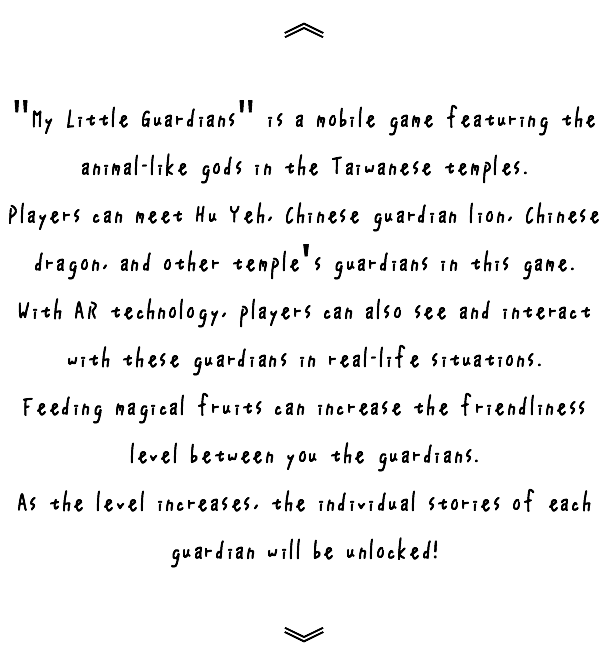
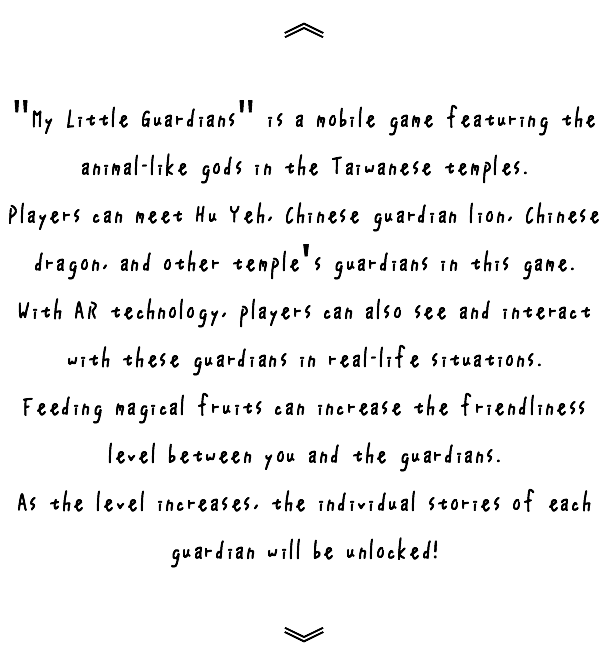
MUSE
Change Web

Changed region(s): [[0.156, 0.6562, 0.8112, 0.6875]]

diff --git a/css/index.css b/css/index.css
@@ -1,1 +1,1 @@
-.version.index{color:#000003;background-color:#F9026B;}#page{z-index:1;width:2048px;min-height:6945px;background-image:none;border-width:0px;border-color:#000000;background-color:#FFFFFF;margin-left:auto;margin-right:auto;}#page_position_content{margin-bottom:-329px;width:0.01px;}#u160{z-index:5;width:1151px;background-color:transparent;margin-left:449px;position:relative;}#u155{z-index:6;display:block;}#pu145{z-index:3;width:0.01px;margin-left:-100px;}#u145{z-index:3;width:2048px;background-color:transparent;position:relative;margin-right:-10000px;}#u171{z-index:7;width:200px;height:1153px;background-color:#91E0E5;position:relative;margin-right:-10000px;left:2048px;}#u254{z-index:40;width:790px;background-color:#FFFFFF;border-radius:50%;padding-bottom:55px;margin-left:629px;margin-top:273px;position:relative;}#u226-18{z-index:41;display:block;vertical-align:top;position:relative;margin-right:-10000px;margin-top:43px;left:91px;}#pu260{z-index:8;width:0.01px;margin-left:-235px;margin-top:272px;}#u260{z-index:8;width:434px;height:434px;background-color:#FFFFFF;border-radius:50%;position:relative;margin-right:-10000px;margin-top:137px;left:702px;}#u269{z-index:9;width:434px;background-color:#FFFFFF;border-radius:50%;padding-bottom:102px;position:relative;margin-right:-10000px;margin-top:438px;left:1627px;}#u270-6{z-index:10;display:block;vertical-align:top;position:relative;margin-right:-10000px;margin-top:102px;left:143px;}#u174{z-index:16;width:657px;background-color:transparent;position:relative;margin-right:-10000px;left:262px;}#u287{z-index:18;width:434px;height:434px;background-color:#FFFFFF;border-radius:50%;position:relative;margin-right:-10000px;margin-top:899px;left:702px;}#u293{z-index:19;width:434px;background-color:#FFFFFF;border-radius:50%;padding-bottom:107px;position:relative;margin-right:-10000px;margin-top:1200px;left:1627px;}#u282-6{z-index:28;display:block;vertical-align:top;position:relative;margin-right:-10000px;margin-top:107px;left:143px;}#u184{z-index:20;width:888px;background-color:transparent;position:relative;margin-right:-10000px;margin-top:211px;left:1084px;}#u276-6{z-index:22;display:block;vertical-align:top;position:relative;margin-right:-10000px;margin-top:1039px;left:815px;}#u194{z-index:34;width:1181px;background-color:transparent;position:relative;margin-right:-10000px;margin-top:526px;}#u206{z-index:36;width:1181px;background-color:transparent;position:relative;margin-right:-10000px;margin-top:881px;left:982px;}#u216{z-index:38;width:1181px;background-color:transparent;position:relative;margin-right:-10000px;margin-top:674px;left:960px;}#u216_img{margin:38px 69px -38px -69px;}#u266-6{z-index:59;display:block;vertical-align:top;position:relative;margin-right:-10000px;margin-top:239px;left:845px;}#pu296{z-index:65;width:0.01px;margin-left:-100px;margin-top:111px;}#u296{z-index:65;width:2048px;background-color:transparent;position:relative;margin-right:-10000px;}#u298{z-index:67;width:200px;height:1153px;background-color:#91E0E5;position:relative;margin-right:-10000px;left:2048px;}#u306{z-index:68;height:1153px;background-color:#000000;opacity:0.71;-ms-filter:"progid:DXImageTransform.Microsoft.Alpha(Opacity=71)";filter:alpha(opacity=71);}.js body{visibility:hidden;}.js body.initialized{visibility:visible;}#u306-bw{z-index:68;height:1153px;}.css_verticalspacer .verticalspacer{height:calc(100vh - 7149px);}#u168{z-index:2;min-height:7336px;background-color:#EEFFD2;}#u168_align_to_page{margin-left:auto;margin-right:auto;position:relative;width:2048px;left:-100px;padding-top:6249px;padding-bottom:189px;margin-bottom:-6945px;}#u312-4{z-index:69;width:207px;min-height:213px;background-color:transparent;color:#FFFFFF;font-size:200px;line-height:240px;left:1046px;position:relative;}#u315-4{z-index:73;display:block;vertical-align:top;left:864px;margin-top:538px;position:relative;}#u168-bw{z-index:2;min-height:7336px;margin-top:-6945px;}#muse_css_mq,.html{background-color:#FFFFFF;}body{position:relative;min-width:2048px;padding-bottom:142px;}
+.version.index{color:#0000EB;background-color:#BB3021;}#page{z-index:1;width:2048px;min-height:5119.9999999999745px;background-image:none;border-width:0px;border-color:#000000;background-color:transparent;padding-bottom:0px;margin-left:auto;margin-right:auto;}#page_position_content{margin-bottom:-1383px;width:0.01px;}#pu145{z-index:3;width:0.01px;margin-left:-100px;}#u145{z-index:3;width:2048px;background-color:transparent;position:relative;margin-right:-10000px;margin-top:1151px;}#u160{z-index:5;width:1151px;background-color:transparent;position:relative;margin-right:-10000px;left:549px;}#u155{z-index:6;display:block;}#u171{z-index:7;min-height:1208px;background-color:#91E0E5;}#u171_align_to_page{margin-left:auto;margin-right:auto;position:relative;width:2048px;left:-100px;}#u318{z-index:73;width:2148px;height:1208px;opacity:1;-ms-filter:"progid:DXImageTransform.Microsoft.Alpha(Opacity=100)";filter:alpha(opacity=100);position:relative;margin-right:-10000px;background:transparent url("../images/%e4%b8%bb%e8%a6%96%e8%a6%ba22.jpg?crc=4254864107") no-repeat left top;background-size:cover;}.js body{visibility:hidden;}.js body.initialized{visibility:visible;}#u171-bw{z-index:7;min-height:1208px;margin-top:1123px;}#u413-4{z-index:74;position:relative;margin-right:-10000px;width:104px;margin-top:844px;left:812px;}#u416-4{z-index:78;position:relative;margin-right:-10000px;width:184px;margin-top:844px;left:1240px;}#u419-4{z-index:82;position:relative;margin-right:-10000px;width:102px;margin-top:844px;left:1748px;}#u422-4{z-index:86;position:relative;margin-right:-10000px;width:90px;margin-top:844px;left:398px;}#pu509{z-index:96;width:0.01px;padding-bottom:622px;margin-left:1944px;margin-top:-2269px;}#u509{z-index:96;width:104px;border-width:0px;border-color:transparent;background-color:transparent;padding-bottom:108px;position:fixed;top:62px;right:100px;}#u466{z-index:97;width:104px;background-color:#FFFFFF;background-color:rgba(255,255,255,0.7);border-radius:50%;padding-bottom:108px;position:fixed;top:62px;right:100px;-pie-background:rgba(255,255,255,0.7);}#u475{z-index:98;width:61px;background-color:transparent;position:fixed;top:86px;right:122px;}#u515{z-index:100;width:104px;border-width:0px;border-color:transparent;background-color:transparent;padding-bottom:108px;position:fixed;top:310px;right:100px;}#u472{z-index:101;width:104px;background-color:#FFFFFF;background-color:rgba(255,255,255,0.7);border-radius:50%;padding-bottom:108px;position:fixed;top:310px;right:100px;-pie-background:rgba(255,255,255,0.7);}#u485{z-index:102;width:61px;background-color:transparent;position:fixed;top:334px;right:122px;}#u512{z-index:104;width:104px;border-width:0px;border-color:transparent;background-color:transparent;padding-bottom:108px;position:fixed;top:186px;right:100px;}#u469{z-index:105;width:104px;background-color:#FFFFFF;background-color:rgba(255,255,255,0.7);border-radius:50%;padding-bottom:108px;position:fixed;top:186px;right:100px;-pie-background:rgba(255,255,255,0.7);}#u495{z-index:106;width:61px;background-color:transparent;position:fixed;top:210px;right:122px;}#u534{z-index:112;width:104px;border-width:0px;border-color:transparent;background-color:transparent;padding-bottom:108px;position:fixed;top:576px;right:100px;}#u518{z-index:113;width:104px;border-width:0px;border-color:transparent;background-color:transparent;padding-bottom:108px;position:fixed;top:576px;right:100px;}#u519{z-index:114;width:104px;height:108px;background-color:#FFFFFF;background-color:rgba(255,255,255,0.7);border-radius:50%;position:fixed;top:576px;right:100px;-pie-background:rgba(255,255,255,0.7);}#u531-4{z-index:115;position:fixed;top:592px;right:119px;}#u413-4_img,#u416-4_img,#u419-4_img,#u422-4_img,#u531-4_img{display:block;vertical-align:top;}#about{left:-100px;margin-top:115px;position:relative;}#u254{z-index:40;width:790px;background-color:#FFFFFF;border-radius:50%;padding-bottom:55px;margin-left:629px;margin-top:113px;position:relative;}#u226-18{z-index:41;display:block;vertical-align:top;position:relative;margin-right:-10000px;margin-top:43px;left:91px;}#charactere{left:-100px;margin-top:246px;position:relative;}#pu260{z-index:8;width:0.01px;margin-left:-235px;margin-top:8px;}#u260{z-index:8;width:434px;height:434px;background-color:#FFFFFF;border-radius:50%;position:relative;margin-right:-10000px;margin-top:137px;left:702px;}#u269{z-index:9;width:434px;background-color:#FFFFFF;border-radius:50%;padding-bottom:102px;position:relative;margin-right:-10000px;margin-top:438px;left:1627px;}#u270-6{z-index:10;display:block;vertical-align:top;position:relative;margin-right:-10000px;margin-top:102px;left:143px;}#u174{z-index:16;width:657px;background-color:transparent;position:relative;margin-right:-10000px;left:262px;}#u287{z-index:18;width:434px;height:434px;background-color:#FFFFFF;border-radius:50%;position:relative;margin-right:-10000px;margin-top:899px;left:702px;}#u293{z-index:19;width:434px;background-color:#FFFFFF;border-radius:50%;padding-bottom:107px;position:relative;margin-right:-10000px;margin-top:1200px;left:1627px;}#u282-6{z-index:28;display:block;vertical-align:top;position:relative;margin-right:-10000px;margin-top:107px;left:143px;}#u184{z-index:20;width:888px;background-color:transparent;position:relative;margin-right:-10000px;margin-top:211px;left:1084px;}#u276-6{z-index:22;display:block;vertical-align:top;position:relative;margin-right:-10000px;margin-top:1039px;left:815px;}#u194{z-index:34;width:1181px;background-color:transparent;position:relative;margin-right:-10000px;margin-top:526px;}#u206{z-index:36;width:1181px;background-color:transparent;position:relative;margin-right:-10000px;margin-top:881px;left:982px;}#u216{z-index:38;width:1181px;background-color:transparent;position:relative;margin-right:-10000px;margin-top:674px;left:960px;}#u216_img{margin:38px 69px -38px -69px;}#u266-6{z-index:59;display:block;vertical-align:top;position:relative;margin-right:-10000px;margin-top:239px;left:845px;}#pu296{z-index:65;width:0.01px;margin-left:-100px;margin-top:111px;}#u296{z-index:65;width:2048px;background-color:transparent;position:relative;margin-right:-10000px;}#u298{z-index:67;width:200px;height:1153px;background-color:#91E0E5;position:relative;margin-right:-10000px;left:2048px;}#u306{z-index:68;height:1153px;background-color:#000000;opacity:0.71;-ms-filter:"progid:DXImageTransform.Microsoft.Alpha(Opacity=71)";filter:alpha(opacity=71);}#u306-bw{z-index:68;height:1153px;}#home,#movie{position:relative;margin-right:-10000px;width:22px;}#u460{z-index:94;width:222px;background-color:transparent;position:relative;margin-right:-10000px;margin-top:466px;left:1013px;}#u455{z-index:95;display:block;margin-bottom:-1px;}.css_verticalspacer .verticalspacer{height:calc(100vh - 8390px);}#u168{z-index:2;min-height:8389.800000000005px;background-color:#EEFFD2;padding-bottom:0px;}#u168_align_to_page{margin-left:auto;margin-right:auto;position:relative;width:2048px;left:-100px;padding-top:7519px;margin-bottom:-6945px;}#u505-4{z-index:108;display:block;vertical-align:top;left:812px;position:relative;}#u315-4{z-index:69;display:block;vertical-align:top;left:863px;margin-top:511px;position:relative;}#u168-bw{z-index:2;min-height:8389.800000000005px;margin-top:-6945px;}#muse_css_mq,.html{background-color:#FFFFFF;}body{position:relative;min-width:2048px;padding-bottom:1383px;}

diff --git a/index.html b/index.html
@@ -10,30 +10,67 @@
 document.documentElement.className = document.documentElement.className.replace(/\bnojs\b/g, 'js');
 
 // Check that all required assets are uploaded and up-to-date
-if(typeof Muse == "undefined") window.Muse = {}; window.Muse.assets = {"required":["museutils.js", "museconfig.js", "jquery.watch.js", "require.js", "index.css"], "outOfDate":[]};
+if(typeof Muse == "undefined") window.Muse = {}; window.Muse.assets = {"required":["museutils.js", "museconfig.js", "jquery.musepolyfill.bgsize.js", "jquery.watch.js", "require.js", "index.css"], "outOfDate":[]};
 </script>
   
+  <link rel="shortcut icon" href="images/home-favicon.ico?crc=207373851"/>
   <title>Home</title>
   <!-- CSS -->
   <link rel="stylesheet" type="text/css" href="css/site_global.css?crc=443350757"/>
-  <link rel="stylesheet" type="text/css" href="css/index.css?crc=66650731" id="pagesheet"/>
+  <link rel="stylesheet" type="text/css" href="css/index.css?crc=3954913313" id="pagesheet"/>
    </head>
  <body>
 
   <div class="clearfix" id="page"><!-- column -->
    <div class="position_content" id="page_position_content">
-    <div class="clip_frame colelem" id="u160"><!-- svg -->
-     <img class="svg" id="u155" src="images/logo.svg?crc=279256335" width="1151" height="1151" alt="" data-mu-svgfallback="images/logo_poster_.png?crc=4082632134"/>
-    </div>
     <div class="clearfix colelem" id="pu145"><!-- group -->
      <div class="clip_frame grpelem" id="u145"><!-- image -->
       <img class="block" id="u145_img" src="images/%e4%b8%bb%e8%a6%96%e8%a6%ba2.jpg?crc=3956573824" alt="" width="2048" height="1153"/>
      </div>
-     <div class="grpelem" id="u171"><!-- simple frame --></div>
+     <div class="clip_frame grpelem" id="u160"><!-- svg -->
+      <img class="svg" id="u155" src="images/logo.svg?crc=279256335" width="1151" height="1151" alt="" data-mu-svgfallback="images/logo_poster_.png?crc=4082632134"/>
+     </div>
+     <div class="browser_width grpelem" id="u171-bw">
+      <div id="u171"><!-- group -->
+       <div class="clearfix" id="u171_align_to_page">
+        <div class="museBGSize grpelem" id="u318"><!-- simple frame --></div>
+       </div>
+      </div>
+     </div>
+     <a class="nonblock nontext anim_swing grpelem" id="u413-4" href="index.html#about"><!-- rasterized frame --><img id="u413-4_img" alt="about" width="104" height="114" src="images/u413-4.png?crc=248800567"/></a>
+     <a class="nonblock nontext anim_swing grpelem" id="u416-4" href="index.html#charactere"><!-- rasterized frame --><img id="u416-4_img" alt="character" width="184" height="114" src="images/u416-4.png?crc=294031881"/></a>
+     <a class="nonblock nontext anim_swing grpelem" id="u419-4" href="index.html#movie"><!-- rasterized frame --><img id="u419-4_img" alt="movie" width="102" height="114" src="images/u419-4.png?crc=4165894461"/></a>
+     <a class="nonblock nontext anim_swing grpelem" id="u422-4" href="index.html#home"><!-- rasterized frame --><img id="u422-4_img" alt="home" width="90" height="114" src="images/u422-4.png?crc=421943307"/></a>
+     <a class="anchor_item grpelem" id="home"></a>
     </div>
+    <div class="clearfix colelem" id="pu509"><!-- group -->
+     <div class="clearfix" id="u509"><!-- group -->
+      <div class="pointer_cursor rgba-background rounded-corners clearfix" id="u466"><!-- group -->
+       <a class="block" href="https://i.kym-cdn.com/entries/icons/original/000/019/907/maxresdefault.jpg"><!-- Block link tag --></a>
+       <a class="nonblock nontext clip_frame" id="u475" href="https://i.kym-cdn.com/entries/icons/original/000/019/907/maxresdefault.jpg" target="_blank"><!-- image --><img class="block" id="u475_img" src="images/webpng.png?crc=360344690" alt="" width="61" height="61"/></a>
+      </div>
+     </div>
+     <div class="clearfix" id="u515"><!-- group -->
+      <div class="pointer_cursor rgba-background rounded-corners clearfix" id="u472"><!-- group -->
+       <a class="block" href="https://www.instagram.com/zoechen1010/"><!-- Block link tag --></a>
+       <a class="nonblock nontext clip_frame" id="u485" href="https://www.instagram.com/zoechen1010/" target="_blank"><!-- image --><img class="block" id="u485_img" src="images/ig.png?crc=4277426111" alt="" title="https://www.instagram.com/zoechen1010/" width="61" height="61"/></a>
+      </div>
+     </div>
+     <div class="clearfix" id="u512"><!-- group -->
+      <a class="nonblock nontext rgba-background rounded-corners clearfix" id="u469" href="https://www.facebook.com/zoe.chen.1010"><!-- group --><div class="clip_frame" id="u495"><!-- image --><img class="block" id="u495_img" src="images/fb.png?crc=3953955352" alt="" title="https://www.facebook.com/zoe.chen.1010" width="61" height="61"/></div></a>
+     </div>
+     <div class="clearfix" id="u534"><!-- group -->
+      <div class="clearfix" id="u518"><!-- group -->
+       <a class="nonblock nontext anim_swing rgba-background rounded-corners" id="u519" href="index.html#home"><!-- simple frame --></a>
+      </div>
+      <a class="nonblock nontext anim_swing" id="u531-4" href="index.html#home"><!-- rasterized frame --><img id="u531-4_img" alt="TOP" width="67" height="86" src="images/u531-4.png?crc=204966520"/></a>
+     </div>
+    </div>
+    <a class="anchor_item colelem" id="about"></a>
     <div class="rounded-corners clearfix colelem" id="u254"><!-- group -->
-     <img class="grpelem" id="u226-18" alt="︽ &quot;My Little Guardians&quot; is a mobile game featuring the animal-like gods in the Taiwanese temples. Players can meet Hu Yeh, Chinese guardian lion, Chinese dragon, and other temple's guardians in this game. With AR technology, players can also see and interact with these guardians in real-life situations. Feeding magical fruits can increase the friendliness level between you the guardians. As the level increases, the individual stories of each guardian will be unlocked! ︾" width="609" height="672" src="images/u226-18.png?crc=249518805"/><!-- rasterized frame -->
+     <img class="grpelem" id="u226-18" alt="︽ &quot;My Little Guardians&quot; is a mobile game featuring the animal-like gods in the Taiwanese temples. Players can meet Hu Yeh, Chinese guardian lion, Chinese dragon, and other temple's guardians in this game. With AR technology, players can also see and interact with these guardians in real-life situations. Feeding magical fruits can increase the friendliness level between you and the guardians. As the level increases, the individual stories of each guardian will be unlocked! ︾" width="609" height="672" src="images/u226-18.png?crc=4159687505"/><!-- rasterized frame -->
     </div>
+    <a class="anchor_item colelem" id="charactere"></a>
     <div class="clearfix colelem" id="pu260"><!-- group -->
      <div class="rounded-corners grpelem" id="u260"><!-- simple frame --></div>
      <div class="rounded-corners clearfix grpelem" id="u269"><!-- group -->
@@ -69,17 +106,14 @@ if(typeof Muse == "undefined") window.Muse = {}; window.Muse.assets = {"required
      <div class="browser_width grpelem" id="u306-bw">
       <div id="u306"><!-- simple frame --></div>
      </div>
-    </div>
-    <div class="verticalspacer" data-offset-top="6945" data-content-above-spacer="6945" data-content-below-spacer="204"></div>
-    <div class="browser_width colelem" id="u168-bw">
-     <div id="u168"><!-- column -->
-      <div class="clearfix" id="u168_align_to_page">
-       <div class="clearfix colelem" id="u312-4"><!-- content -->
-        <p>▶</p>
-       </div>
-       <img class="colelem" id="u315-4" alt="My Little Guardians" width="521" height="120" src="images/u315-4.png?crc=4028313191"/><!-- rasterized frame -->
-      </div>
+     <a class="anchor_item grpelem" id="movie"></a>
+     <div class="clip_frame grpelem" id="u460"><!-- svg -->
+      <img class="svg" id="u455" src="images/play.svg?crc=473038716" width="222" height="222" alt="" data-mu-svgfallback="images/play_poster_.png?crc=163889004"/>
      </div>
+    </div>
+    <div class="verticalspacer" data-offset-top="6945" data-content-above-spacer="6945" data-content-below-spacer="1445"></div>
+    <div class="browser_width colelem" id="u168-bw">
+     <a class="nonblock nontext anim_swing" id="u168" href="index.html#home"><!-- column --><div class="clearfix" id="u168_align_to_page"><img class="colelem" id="u505-4" alt="coming soon!" width="626" height="240" src="images/u505-4.png?crc=76885370"/><!-- rasterized frame --><img class="colelem" id="u315-4" alt="My Little Guardians" width="521" height="120" src="images/u315-4.png?crc=4028313191"/><!-- rasterized frame --></div></a>
     </div>
    </div>
   </div>
@@ -89,7 +123,7 @@ if(typeof Muse == "undefined") window.Muse = {}; window.Muse.assets = {"required
 16);return 0},g=function(g){for(var f=document.getElementsByTagName("link"),h=0;h<f.length;h++)if("text/css"==f[h].type){var i=(f[h].href||"").match(/\/?css\/([\w\-]+\.css)\?crc=(\d+)/);if(!i||!i[1]||!i[2])break;b[i[1]]=i[2]}f=document.createElement("div");f.className="version";f.style.cssText="display:none; width:1px; height:1px;";document.getElementsByTagName("body")[0].appendChild(f);for(h=0;h<Muse.assets.required.length;){var i=Muse.assets.required[h],l=i.match(/([\w\-\.]+)\.(\w+)$/),k=l&&l[1]?
 l[1]:null,l=l&&l[2]?l[2]:null;switch(l.toLowerCase()){case "css":k=k.replace(/\W/gi,"_").replace(/^([^a-z])/gi,"_$1");f.className+=" "+k;k=a(c(f,"color"));l=a(c(f,"backgroundColor"));k!=0||l!=0?(Muse.assets.required.splice(h,1),"undefined"!=typeof b[i]&&(k!=b[i]>>>24||l!=(b[i]&16777215))&&Muse.assets.outOfDate.push(i)):h++;f.className="version";break;case "js":h++;break;default:throw Error("Unsupported file type: "+l);}}d?d().jquery!="1.8.3"&&Muse.assets.outOfDate.push("jquery-1.8.3.min.js"):Muse.assets.required.push("jquery-1.8.3.min.js");
 f.parentNode.removeChild(f);if(Muse.assets.outOfDate.length||Muse.assets.required.length)f="Some files on the server may be missing or incorrect. Clear browser cache and try again. If the problem persists please contact website author.",g&&Muse.assets.outOfDate.length&&(f+="\nOut of date: "+Muse.assets.outOfDate.join(",")),g&&Muse.assets.required.length&&(f+="\nMissing: "+Muse.assets.required.join(",")),alert(f)};location&&location.search&&location.search.match&&location.search.match(/muse_debug/gi)?setTimeout(function(){g(!0)},5E3):g()}};
-var muse_init=function(){require.config({baseUrl:""});require(["jquery","museutils","whatinput","jquery.watch"],function(d){var $ = d;$(document).ready(function(){try{
+var muse_init=function(){require.config({baseUrl:""});require(["jquery","museutils","whatinput","jquery.musepolyfill.bgsize","jquery.watch"],function(d){var $ = d;$(document).ready(function(){try{
 window.Muse.assets.check($);/* body */
 Muse.Utils.transformMarkupToFixBrowserProblemsPreInit();/* body */
 Muse.Utils.prepHyperlinks(true);/* body */

diff --git a/scripts/jquery.musepolyfill.bgsize.js b/scripts/jquery.musepolyfill.bgsize.js
@@ -1,0 +1,13 @@
+/*
+ Copyright 2011-2016 Adobe Systems Incorporated. All Rights Reserved.
+*/
+(function(d){"function"===typeof define&&define.amd&&define.amd.jQuery?define(["jquery","museutils"],d):d(jQuery)})(function(d){function b(a){var b=a.css("background-image");a.css("background-image","");var c=a.css("background-image");b!=c&&a.css("background-image",b);return c.replace(/^\s*url\(\"?/,"").replace(/['"]?\)$/,"")}if(!Muse.Browser.Features.checkCSSFeature("background-size")){var c=function(a){var c=d(a),g=b(c),h=document.createElement("img"),i=document.createElement("div"),l=this,k=!1,
+m=!1,n=!0,o={};d(i).css({overflow:"hidden",position:"absolute",top:"0px",left:"0px",width:a.clientWidth+"px",height:a.clientHeight+"px",marginBottom:"-"+a.clientHeight+"px",marginRight:"-"+a.clientWidth+"px",zIndex:"-1"}).addClass("museBgSizePolyfill");h.src=g;h.alt="";h.style.position="absolute";i.appendChild(h);a.children.length>0?a.insertBefore(i,a.children[0]):a.appendChild(i);if(a===document.body)c=d("html"),a=c.get(0),g=b(c),h.src=g,c.css("background-attachment")=="fixed"?(i.style.position=
+"fixed",n=!1):i.style.position="absolute";else if(c.is("#page"))c.css("marginLeft").toLowerCase()=="auto"&&(m=!0),i.style.top=c.offset().top+parseInt(c.css("borderTopWidth"))+"px",i.style.bottom=parseInt(c.parent().css("paddingBottom"))+parseInt(c.css("borderBottomWidth"))+"px",i.style.left=c.offset().left+parseInt(c.css("borderLeftWidth"))+"px",i.style.right=c.offset().left+parseInt(c.css("borderRightWidth"))+"px",i.style.zIndex=0;else if(c.css("position")=="static")a.style.position="relative";this.reloadImage=
+function(){var d=b(c),g=c.css("background-color");if(d!=h.src)h.src=d;a.style.backgroundImage="none";a.style.backgroundColor="transparent";i.style.backgroundColor=g;d=(c.css("background-position-x")+" "+c.css("background-position-y")).replace(/^\s+/,"").replace(/\s+$/,"");"0px 0px"==d&&(d="left top");d=d.split(/\s+/);d.length==1&&d[0].indexOf("center")>=0&&d.push("center");if(c.data("hasBackgroundPositionScrollEffect")!=!0)for(var g=0,k=d.length;g<k;g++)switch(d[g]){case "center":case "50%":g==0?
+(h.style.right="",h.style.left="50%",h.style.marginLeft="-"+Math.ceil(h.offsetWidth/2)+"px"):(h.style.bottom="",h.style.top="50%",h.style.marginTop="-"+Math.ceil(h.offsetHeight/2)+"px");break;case "left":h.style.right="";h.style.left="0px";h.style.marginLeft="0px";break;case "right":h.style.left="";h.style.right="0px";h.style.marginLeft="0px";break;case "top":h.style.bottom="";h.style.top="0px";h.style.marginTop="0px";break;case "bottom":h.style.top="";h.style.bottom="0px";h.style.marginTop="0px";
+break;default:g==0?(h.style.left=d[g],h.style.marginLeft="-"+Math.ceil(h.offsetWidth/2)+"px"):(h.style.top=d[g],h.style.marginTop="-"+Math.ceil(h.offsetHeight/2)+"px")}};this.resizeImage=function(b){var d=a.getBoundingClientRect(),g=a.scrollWidth-(Muse.Browser.Bugs.ScrollWidthHeightIncludesBorder?d.right-d.left-c.innerWidth():0),d=a.scrollHeight-(Muse.Browser.Bugs.ScrollWidthHeightIncludesBorder?d.bottom-d.top-c.innerHeight():0),g=!n?a.clientWidth:Math.max(g,a.clientWidth),d=!n?a.clientHeight:Math.max(d,
+a.clientHeight);!o[h.src]&&h.clientWidth&&(o[h.src]={width:h.clientWidth,height:h.clientHeight});var k=g/(o[h.src]?o[h.src].width:1),l=d/(o[h.src]?o[h.src].height:1);i.style.height=d+"px";i.style.marginBottom="-"+d+"px";i.style.width=g+"px";i.style.marginRight="-"+g+"px";k<l==b?(h.style.height=d+1+"px",h.style.width="auto"):(h.style.width=g+1+"px",h.style.height="auto")};this.update=function(){if(k){a.style.backgroundImage="";c.css("background-color","");var b=c.css("background-image").toLowerCase(),
+d=(a.currentStyle||window.getComputedStyle(a,null))["background-size"];d&&d.toLowerCase();if(b!="none"&&(d=="cover"||d=="contain")){if(l.reloadImage(),i.style.display="block",i.style.width="0px",i.style.height="0px",l.resizeImage(d=="cover"),m)i.style.left=c.offset().left+parseInt(c.css("borderLeftWidth"))+"px",i.style.right=c.offset().left+parseInt(c.css("borderRightWidth"))+"px"}else i.style.display="none"}};if(h.complete||g=="none")k=!0;else d(h).one("load",function(){k=!0;l.update()});this.update()},
+a=function(){this.updateList=[]};a.prototype.initialize=function(a){var b=this;a.each(function(){var a=new c(this);this!==document.body?b.updateList.push(a):(d(window).resize(function(){setTimeout(function(){a.update()},10)}),d(window).load(function(){setTimeout(function(){a.update()},10)}))});var g=b.updateList.length;g>0&&setInterval(function(){for(var a=0;a<g;a++)b.updateList[a].update()},Math.max(120,16*g))};d(window).data("musePolyfill.bgSize",new a)}});
+;(function(){if(!("undefined"==typeof Muse||"undefined"==typeof Muse.assets)){var a=function(a,b){for(var c=0,d=a.length;c<d;c++)if(a[c]==b)return c;return-1}(Muse.assets.required,"jquery.musepolyfill.bgsize.js");if(-1!=a){Muse.assets.required.splice(a,1);for(var a=document.getElementsByTagName("meta"),b=0,c=a.length;b<c;b++){var d=a[b];if("generator"==d.getAttribute("name")){"2017.0.0.363"!=d.getAttribute("content")&&Muse.assets.outOfDate.push("jquery.musepolyfill.bgsize.js");break}}}}})();
